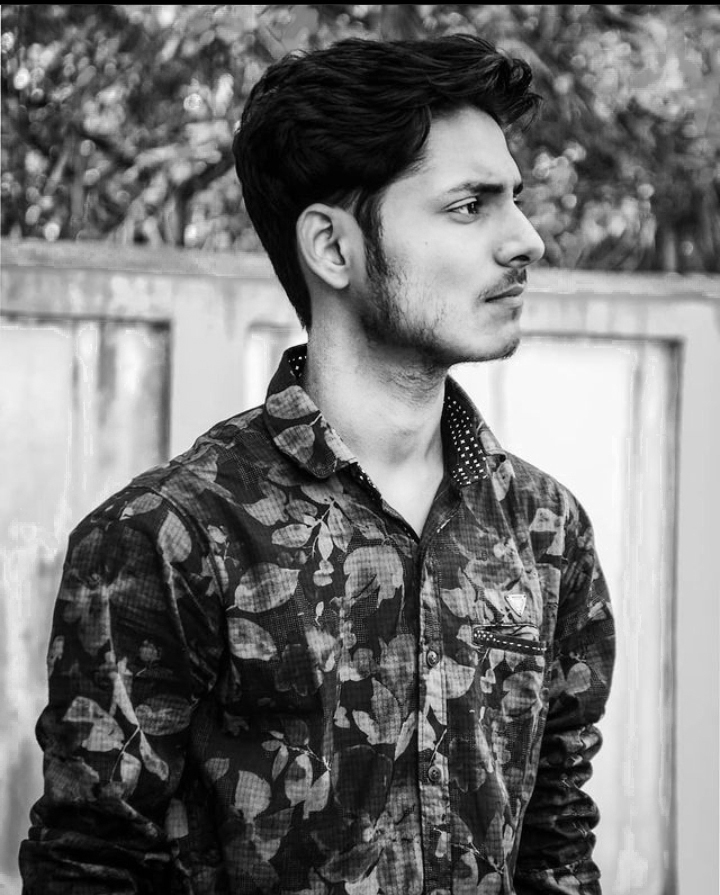
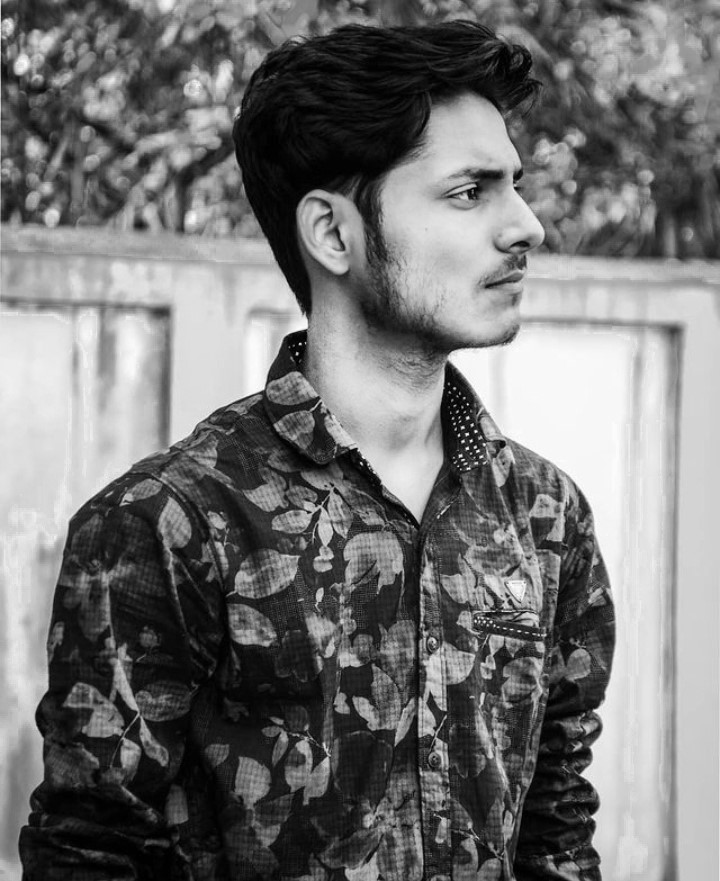
files updated

diff --git a/tailwind.config.js b/tailwind.config.js
@@ -3,34 +3,38 @@ export default {
   content: ["./index.html", "./src/**/*.{js,ts,jsx,tsx}"],
   theme: {
     extend: {
+      //custom fonts
       fontFamily:{satoshi:['Satoshi', "serif"]},
+      //bg added
       backgroundImage:{
-        "hero1": "url(/src/assets/bg-1.svg)",
-        "hero2": "url(/src/assets/bg-2.svg)",
-        "blob1": "url(/src/assets/blob-1.svg)",
-        "blob2": "url(/src/assets/blob-2.svg)",
+        "pic": "url(/pic.jpg)",
         "circle-star": "url(/src/assets/circle-star.svg)",
         "layered-waves1": "url(/src/assets/layered-waves1.svg)",
       },
+      //frames added
       keyframes: {
-        bgAnim: {
-          "0%": { backgroundImage: "url(/src/assets/blob-1.svg)", },
-          "20%": { backgroundImage: "url(/src/assets/blob-2.svg)" },
-          "50%": { backgroundImage: "url(/src/assets/blob-1.svg)" },
-          "70%": { backgroundImage: "url(/src/assets/blob-2.svg)" },
-          "100%": { backgroundImage: "url(/src/assets/blob-1.svg)" },
+        morphAnim:{
+          "0%":{borderRadius: "60% 40% 30% 70%/60% 30% 70% 40%" },
+          "50%":{borderRadius: "30% 60% 70% 40%/50% 60% 30% 60%" },
+          "100%":{borderRadius: "60% 40% 30% 70%/60% 30% 70% 40%" },
         },
       },
+      //animation added
       animation: {
-        "bg-anim": "bgAnim 10s linear infinite",
         "spin": "spin 10s linear infinite",
+        "morphAnim": "morphAnim 8s ease-in-out infinite 1s",
       },
+      //custom colors
       colors:{
         primary: "#212529",
         secondary: "#343a40",
         tertiary: "#495057",
         value4: "#6c757d",
         value5: "#adb5bd",
+      },
+      //custom box shadow
+      boxShadow: {
+        'inset': 'inset 0 0 0 9px rgb(255 255 255 / 30%), 15px 25px 20px rgba(0,0,0,.1), 15px 20px 20px rgba(0,0,0,0.05);',
       }
     },
   },

diff --git a/src/components/Hero.jsx b/src/components/Hero.jsx
@@ -7,7 +7,7 @@ import { fadeIn } from "./Variants";
 
 const Hero = () => {
   return (
-    <section id="home" className="w-full h-screen pt-[100px] px-[6px] cut-bottom bg-layered-waves1 bg-no-repeat bg-cover bg-center">
+    <section id="home" className="w-full h-screen pt-[100px] px-[6px] cut-bottom bg-layered-waves1  bg-no-repeat bg-cover bg-center ">
       <div className="flex flex-col lg:flex-row gap-10 justify-between items-center border border-transparent w-full h-full rounded-2xl  container mx-auto">
         {/* text, btn, circle */}
         <motion.div
@@ -51,7 +51,7 @@ const Hero = () => {
           initial="hidden"
           whileInView="show"
         >
-          <img src="/avatar.png" alt="avatar" className="object-cover  wave-bottom" />
+          <img src="/avatar.png" alt="avatar" className="object-cover  wave-bottom " />
         </motion.div>
       </div>
     </section>

diff --git a/src/components/About.jsx b/src/components/About.jsx
@@ -26,9 +26,7 @@ const About = () => {
 
         <motion.div variants={fadeIn("right",0.3,1.2)} initial="hidden" whileInView="show" className=" flex justify-center items-center h-[500px]">
         <img
-            src="/pic.jpg"
-            alt="pfp"
-            className="  rounded-xl object-cover content-center h-full "
+            className=" bg-pic bg-cover bg-no-repeat bg-center object-cover content-center w-[300px] h-[400px] lg:w-[400px] lg:h-[500px] shadow-inset animate-morphAnim"
           />
         </motion.div>
 
